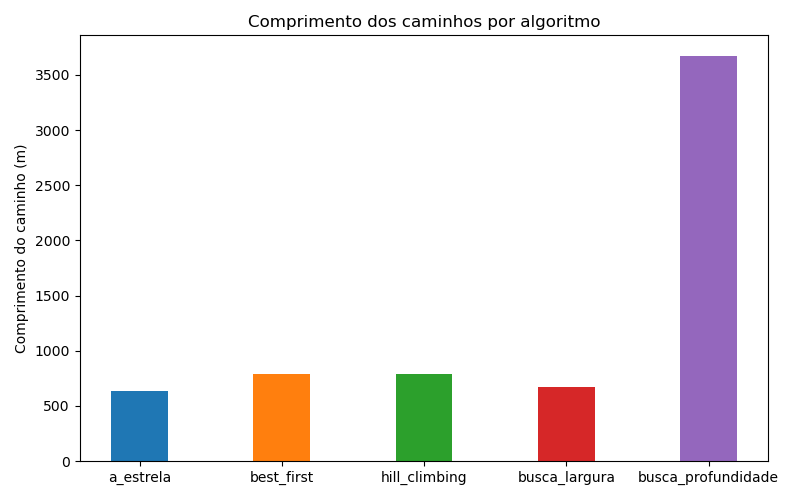
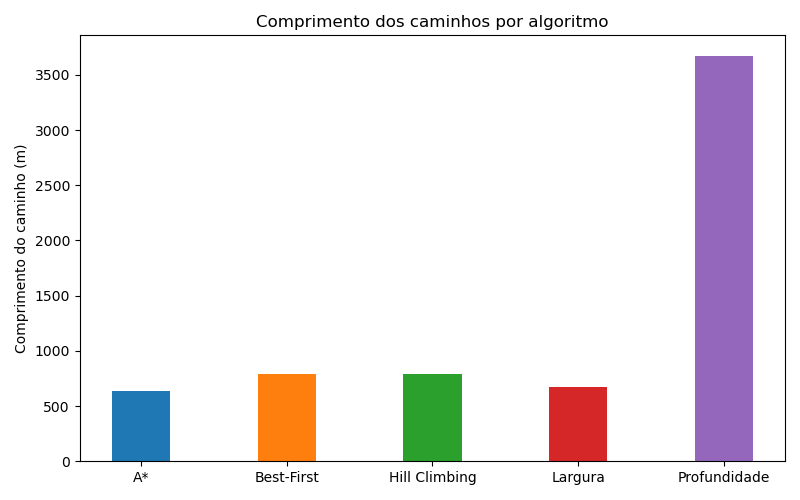
codigo finalizado, falta documentar

diff --git a/main.py b/main.py
@@ -7,7 +7,7 @@
 import warnings
 warnings.simplefilter("ignore", category=FutureWarning) # evitar avisos dos modulos como matplotlibe e osmnx
 
-from algoritmos import a_estrela, best_first, hill_climbing, busca_largura, busca_profundidade
+from algoritmos import a_estrela, a_estrela_countexp, best_first, hill_climbing, busca_largura, busca_profundidade
 from geracao import geracacao_osm, geracao_custom
 from heuristicas import heuristica_osm, heuristica_custom
 
@@ -17,6 +17,7 @@ import matplotlib.pyplot as plt
 import osmnx as ox
 import numpy as np
 import networkx as nx
+import matplotlib.cm as cm
 
 # Para o experimento I usamos uma rede do dataset do OpenStreetMap (biblioteca osmnx)
 # a fim de deixar a visualização dos caminhos mais interessante
@@ -33,6 +34,7 @@ def experimento_1():
     save_plot=True
     
     funcoes_busca = [a_estrela, best_first, hill_climbing, busca_largura, busca_profundidade]
+    nomes_algoritmos = ['A*', 'Best-First', 'Hill Climbing', 'Largura', 'Profundidade']
 
     # definindo uma função distância para poder calcular g(n) no algoritmo A*
     # grafo[x][y] retorna atributos da aresta (x,y), length é a distância entre os nós (vêm direto do OSM)
@@ -42,7 +44,7 @@ def experimento_1():
 
     os.makedirs("./resultados/experimento_1", exist_ok=True)
 
-    for alg in funcoes_busca:
+    for alg, nome in zip(funcoes_busca, nomes_algoritmos):
         # Pra simplificar a chamada, todas as funções recebem a heuristica e função de distância (pra calcular g(n))
         # Mas só as que precisam desses argumentos de fato os usam
         caminho = alg(grafo, inicio, fim, heuristica_osm, dist_func)
@@ -51,8 +53,7 @@ def experimento_1():
             # Exibir/Salvar visualização dos caminhos e plotar o comprimento
             ox.plot_graph_route(grafo, caminho, show=show_plot, save=save_plot, filepath=f"./resultados/experimento_1/{alg.__name__}.png")
             comprimento = sum([dist_func(grafo, caminho[i], caminho[i+1]) for i in range(len(caminho)-1)])
-            axs.bar(alg.__name__, comprimento, width=0.4)
-
+            axs.bar(nome, comprimento, width=0.4)
         else:
             print(f"Caminho não encontrado para algoritmo: {alg.__name__}")
 
@@ -62,17 +63,9 @@ def experimento_1():
     fig_comps.tight_layout()
     fig_comps.savefig(fname="./resultados/experimento_1/comprimentos.png")
 
-def experimento_2():
-    parametros_grafos = [(2000, 0.01), (2000, 0.02), (2000, 0.03)]
+def experimento_2(grafos, pares_vertices):
     funcoes_busca = [a_estrela, best_first, hill_climbing, busca_largura, busca_profundidade]
     nomes_algoritmos = ['A*', 'Best-First', 'Hill Climbing', 'Largura', 'Profundidade']
-
-    # Gerar os grafos
-    grafos = [geracao_custom.gera_grafo(n, l) for n, l in parametros_grafos]
-
-    # Selecionar 10 pares de vértices distintos
-    np.random.seed(0)
-    pares_vertices = [tuple(np.random.choice(2000, 2, replace=False)) for _ in range(100)]
 
     # Resultados de distância e tempo
     resultados_distancia = {nome: [] for nome in nomes_algoritmos}
@@ -141,16 +134,113 @@ def experimento_2():
     axes[2].set_ylabel('Número de caminhos')
     axes[2].legend(loc='upper left', ncols=3)
 
+    fig.suptitle("Comparando diferentes algoritmos de busca", fontsize=16)
     fig.tight_layout()
     os.makedirs("./resultados/experimento_2", exist_ok=True)
     fig.savefig(fname="./resultados/experimento_2/metricas.png")
 
 
-def experimento_3():
-    # Comparar A* com Dijkstra
-    return 1
+def experimento_3(grafos, pares_vertices):
+    dist_func = lambda grafo, a, b: grafo[a][b]['weight']
+    nomes_algoritmos = ["A*", "Dijkstra"]
+
+    resultados_distancia = {nome: [] for nome in nomes_algoritmos}
+    resultados_tempo = {nome: [] for nome in nomes_algoritmos}
+    resultados_explorados = {nome: [] for nome in nomes_algoritmos}
+
+    for grafo in grafos:
+        # Usando lambda + clojure pra transformar A* em Dijkstra (h(n) = 0, para todo n)
+        a_est = lambda orig, dest: a_estrela_countexp(grafo, orig, dest, heuristica_custom, dist_func)
+        dijkstra = lambda orig, dest : a_estrela_countexp(grafo, orig, dest, lambda x, y, z: 0, dist_func)
+
+        funcs = [a_est, dijkstra]
+
+        for func, nome in zip(funcs, nomes_algoritmos):
+            distancias = []
+            tempos = []
+            explorados = []
+            for origem, destino in pares_vertices:
+                t_inicio = time.time()
+                caminho, n_explorados = func(origem, destino)
+                t_fim = time.time()
+
+                if caminho and caminho[-1]==destino:
+                    distancia = sum(grafo[u][v]['weight'] for u, v in zip(caminho[:-1], caminho[1:]))
+                    distancias.append(distancia)
+                tempos.append(t_fim - t_inicio)
+                explorados.append(n_explorados)
+        
+            # Média das distâncias e tempos
+            resultados_distancia[nome].append(np.mean(distancias) if distancias else 0)
+            resultados_tempo[nome].append(np.mean(tempos))
+            resultados_explorados[nome].append(np.mean(explorados))
+
+    # Plotar os gráficos
+    fig, axes = plt.subplots(3, 1, figsize=(14, 14))
+    x = np.arange(len(nomes_algoritmos))
+    largura = 0.25
+
+    def metric_plot(ax, data, title, ylabel):
+        for i, label in enumerate(['λ=0.01', 'λ=0.02', 'λ=0.03']):
+            ax.bar(x + i * largura, [data[nome][i] for nome in nomes_algoritmos], width=largura, label=label)
+
+        ax.set_title(title)
+        ax.set_xticks(x + largura, nomes_algoritmos)
+        ax.set_ylabel(ylabel)
+        ax.legend(loc='upper left', ncols=3)
+
+    metric_plot(axes[0], resultados_distancia, 'Distância Média dos Caminhos', "Distância média (m)")
+    metric_plot(axes[1], resultados_tempo, 'Tempo Médio de Execução', "Tempo médio (s)")
+    metric_plot(axes[2], resultados_explorados, 'Número médio de nós explorados', "Nós explorados")
+
+    fig.suptitle('Comparando A* e Dijkstra', fontsize=16)
+    fig.tight_layout()
+    os.makedirs("./resultados/experimento_3", exist_ok=True)
+    fig.savefig(fname="./resultados/experimento_3/comparacao.png")
+
+    # Visualização de um dos caminhos gerados pelo dijkstra e A*
+    path_fig, path_axes = plt.subplots(2, 1, figsize=(10, 14))
+
+    def path_plot(ax, grafo, arestas, title, cores):
+        pos = nx.get_node_attributes(grafo, 'pos')
+        nx.draw_networkx(grafo, pos, node_size=150, node_color=cores, cmap=cm.viridis, ax=ax, with_labels=False)
+        nx.draw_networkx_nodes(grafo, pos, nodelist=[inicio, fim], node_color="red", node_size=300, ax=ax)
+        nx.draw_networkx_edges(grafo, pos, edgelist=arestas, edge_color="red", width=2, ax=ax)
+        ax.set_title(title)
+
+    grafo_vis = geracao_custom.gera_grafo(100, 0.07)
+    inicio = 99
+    fim = 5
+
+    caminho_a = a_estrela(grafo_vis, inicio, fim, heuristica_custom, dist_func)
+    arestas_a = list(zip(caminho_a[:-1], caminho_a[1:]))
+
+    # A* com heuristica h(n) = 0 é o Dijkstra
+    caminho_dij = a_estrela(grafo_vis, inicio, fim, lambda x, y, z: 0, dist_func)
+    arestas_dij = list(zip(caminho_dij[:-1], caminho_dij[1:]))
+
+    # Para coloração
+    dists = nx.single_source_shortest_path_length(grafo_vis, inicio)
+    cores_nos = [dists.get(node, float('inf')) for node in sorted(list(grafo_vis.nodes()))]
+
+    path_plot(path_axes[0], grafo_vis, arestas_a, "A*", cores_nos)
+    path_plot(path_axes[1], grafo_vis, arestas_dij, "Dijkstra", cores_nos)
+
+    path_fig.suptitle('Visualização dos caminhos', fontsize=16)
+    path_fig.tight_layout()
+    path_fig.savefig(fname="./resultados/experimento_3/caminhos.png")
 
 if __name__ == "__main__":
+    # Experimento 1 usa grafo especial do OpenStreetMap para ficar mais interessante
     experimento_1()
-    experimento_2()
-    # experimento_3()
+
+    # Experimentos 2 e 3 compartilham grafos e pares de vertices para busca
+    parametros_grafos = [(2000, 0.01), (2000, 0.02), (2000, 0.03)]
+    grafos = [geracao_custom.gera_grafo(n, l) for n, l in parametros_grafos]
+
+    # Selecionar 100 pares de vértices distintos
+    np.random.seed(0)
+    pares_vertices = [tuple(np.random.choice(2000, 2, replace=False)) for _ in range(100)]
+
+    experimento_2(grafos, pares_vertices)
+    experimento_3(grafos, pares_vertices)

diff --git a/algoritmos/a_estrela.py b/algoritmos/a_estrela.py
@@ -36,3 +36,42 @@ def a_estrela(grafo, inicio, fim, heuristica, dist_func):
     caminho.append(inicio)
 
     return caminho[::-1]
+
+def a_estrela_countexp(grafo, inicio, fim, heuristica, dist_func):
+    dists = { no: np.inf for no in grafo.nodes }
+    predecessor = { no: -1 for no in grafo.nodes }
+    dists[inicio] = 0
+
+    fila_prioridade = []
+    heappush(fila_prioridade, (heuristica(grafo, inicio, fim), inicio))
+
+    explorados = 0
+
+    while fila_prioridade:
+        _, atual = heappop(fila_prioridade)
+        
+        explorados += 1
+
+        if atual == fim:
+            break
+
+        for vizinho in grafo.neighbors(atual):
+            dist_g = dists[atual] + dist_func(grafo, atual, vizinho)
+            
+            if dist_g < dists[vizinho]:
+                predecessor[vizinho] = atual
+                dists[vizinho] = dist_g
+                heuristica_f = dist_g + heuristica(grafo, vizinho, fim)
+                heappush(fila_prioridade, (heuristica_f, vizinho))
+
+    if predecessor[fim] == -1:
+        return None, explorados
+    
+    caminho = []
+    x = fim
+    while x != inicio:
+        caminho.append(x)
+        x = predecessor[x]
+    caminho.append(inicio)
+
+    return caminho[::-1], explorados

diff --git a/algoritmos/__init__.py b/algoritmos/__init__.py
@@ -1,6 +1,6 @@
 # Configuração do package algoritmos
 
-from .a_estrela import a_estrela
+from .a_estrela import a_estrela, a_estrela_countexp
 from .best_first import best_first
 from .hill_climbing import hill_climbing
 from .largura import busca_largura
